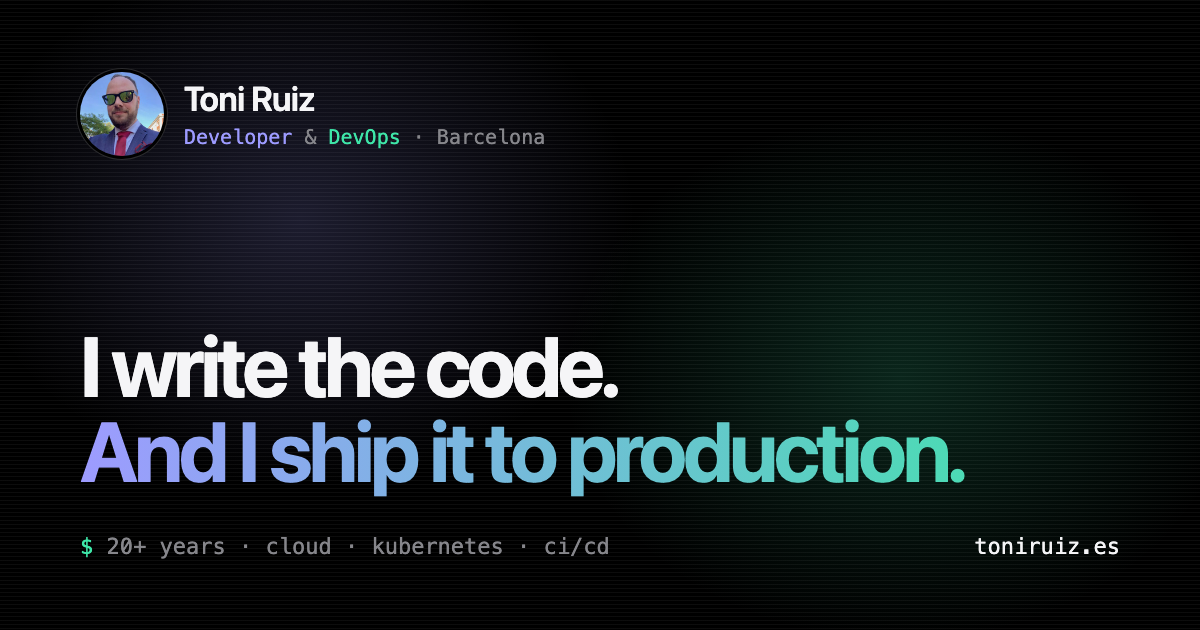
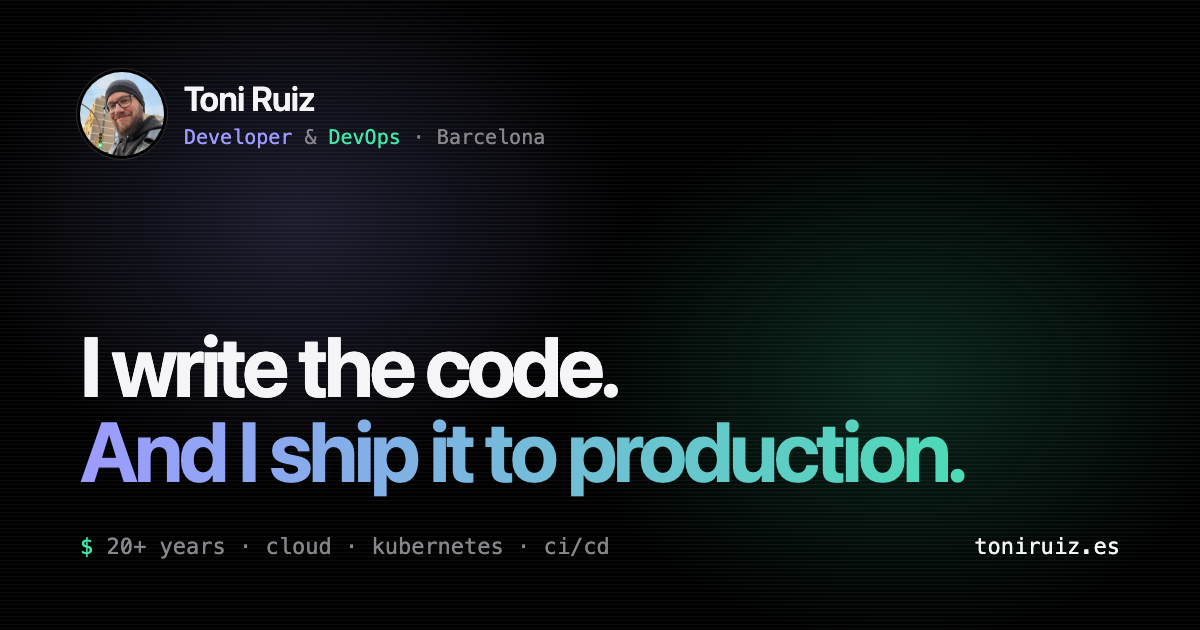
feat: usa la foto de perfil de GitHub en cabecera, datos estructurados e imágenes OG

Changed region(s): [[0.0617, 0.0905, 0.1542, 0.2714]]

diff --git a/site/en/index.html b/site/en/index.html
@@ -72,7 +72,7 @@
         "name": "Toni Ruiz",
         "alternateName": "Favashi",
         "url": "https://toniruiz.es/",
-        "image": "https://toniruiz.es/assets/img/toni.jpg",
+        "image": "https://toniruiz.es/assets/img/avatar.jpg",
         "email": "mailto:info@toniruiz.es",
         "jobTitle": "Developer & DevOps",
         "description": "Software developer with 20+ years of experience, now working full-time in DevOps.",
@@ -152,7 +152,7 @@
     <!-- ================= HERO ================= -->
     <section class="hero">
       <div class="wrap">
-        <img class="avatar" src="../assets/img/toni-176.webp" width="176" height="176" alt="Portrait of Toni Ruiz" fetchpriority="high">
+        <img class="avatar" src="../assets/img/avatar-176.webp" width="176" height="176" alt="Portrait of Toni Ruiz" fetchpriority="high">
         <p class="hero-name">Toni Ruiz · Barcelona</p>
         <h1>I write the code.<span class="l2 grad">And I ship it to production.</span></h1>
         <p class="sub"><strong>20+ years as a developer</strong>, now <strong>full-time DevOps</strong>. From the first line of code to the cluster, same hands all the way.</p>

diff --git a/site/index.html b/site/index.html
@@ -72,7 +72,7 @@
         "name": "Toni Ruiz",
         "alternateName": "Favashi",
         "url": "https://toniruiz.es/",
-        "image": "https://toniruiz.es/assets/img/toni.jpg",
+        "image": "https://toniruiz.es/assets/img/avatar.jpg",
         "email": "mailto:info@toniruiz.es",
         "jobTitle": "Developer & DevOps",
         "description": "Developer con más de 20 años de experiencia y DevOps a tiempo completo.",
@@ -152,7 +152,7 @@
     <!-- ================= HERO ================= -->
     <section class="hero">
       <div class="wrap">
-        <img class="avatar" src="assets/img/toni-176.webp" width="176" height="176" alt="Retrato de Toni Ruiz" fetchpriority="high">
+        <img class="avatar" src="assets/img/avatar-176.webp" width="176" height="176" alt="Retrato de Toni Ruiz" fetchpriority="high">
         <p class="hero-name">Toni Ruiz · Barcelona</p>
         <h1>Escribo el código.<span class="l2 grad">Y lo llevo a producción.</span></h1>
         <p class="sub">Más de <strong>20 años como desarrollador</strong> y hoy <strong>DevOps a tiempo completo</strong>. De la primera línea al clúster, sin cambiar de manos.</p>
